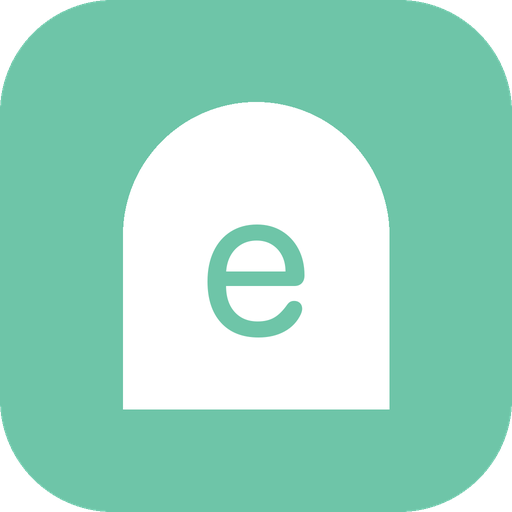
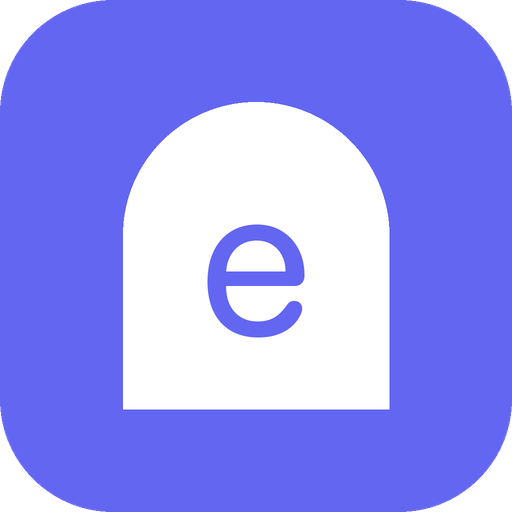
rebrand: 主色 Mint → Indigo #6366f1
- --accent 改 #6366f1，浅 tint 统一 #e5e7fd
- 图标底色改 Indigo（壁龛+e 不变）
- manifest/index theme-color 改 #6366f1
- BUILD_ID/sw VERSION 升 202608180003

diff --git a/styles.css b/styles.css
@@ -1,6 +1,6 @@
 :root {
   --bg: #f5f6f8; --card: #ffffff; --text: #1a1d26; --muted: #8a90a0;
-  --accent: #6ec5a8; --up: #e6413d; --down: #12b76a; --line: #eceef2;
+  --accent: #6366f1; --up: #e6413d; --down: #12b76a; --line: #eceef2;
   --danger: #e6413d;
 }
 * { box-sizing: border-box; margin: 0; padding: 0; -webkit-tap-highlight-color: transparent; }
@@ -33,7 +33,7 @@ body.scroll-locked { overflow: hidden; touch-action: none; }
 .token-eye .ico { width: 18px; height: 18px; display: block; color: var(--muted); }
 
 /* Sync bar (打开时/下拉刷新时显示) */
-.sync-bar { background: #d9efe5; color: var(--accent); font-size: 12px; text-align: center;
+.sync-bar { background: #e5e7fd; color: var(--accent); font-size: 12px; text-align: center;
   padding: 6px 12px; position: sticky; top: 44px; z-index: 9; }
 .sync-bar.hidden { display: none; }
 .sync-bar.error { background: #fdecec; color: var(--up); }
@@ -162,7 +162,7 @@ input, select { width: 100%; padding: 11px 12px; margin: 8px 0; border: 1px soli
 .dd-item { padding: 13px 18px; font-size: 15px; cursor: pointer; display: flex; align-items: center;
   gap: 10px; transition: background 0.12s; user-select: none; -webkit-user-select: none; }
 .dd-item:active { background: #f0f2f6; }
-.dd-item.active { color: var(--accent); font-weight: 600; background: #d9efe5; }
+.dd-item.active { color: var(--accent); font-weight: 600; background: #e5e7fd; }
 .dd-item .dd-icon { width: 20px; height: 20px; flex-shrink: 0; display: flex; align-items: center; justify-content: center; }
 .dd-item .dd-icon svg { width: 18px; height: 18px; }
 .dd-divider { height: 1px; background: var(--line); margin: 0 12px; }
@@ -173,7 +173,7 @@ input, select { width: 100%; padding: 11px 12px; margin: 8px 0; border: 1px soli
   border: 1px solid var(--line); margin-bottom: 12px; overflow: hidden; }
 .trade-tab { flex: 1; padding: 10px; text-align: center; font-size: 13px; font-weight: 500;
   cursor: pointer; color: var(--muted); border: 0; background: none; transition: all 0.2s; }
-.trade-tab.active { color: var(--accent); background: #d9efe5; font-weight: 600; }
+.trade-tab.active { color: var(--accent); background: #e5e7fd; font-weight: 600; }
 
 .summary-grid { display: grid; grid-template-columns: repeat(2, 1fr); gap: 8px; margin-bottom: 12px; }
 .summary-card { background: var(--card); border-radius: 10px; padding: 10px 12px; border: 1px solid var(--line); }
@@ -201,7 +201,7 @@ input, select { width: 100%; padding: 11px 12px; margin: 8px 0; border: 1px soli
 .trade-list { display: flex; flex-direction: column; gap: 8px; }
 .trade-card { background: var(--card); border-radius: 12px; border: 1px solid var(--line);
   padding: 12px 14px; cursor: pointer; transition: box-shadow 0.15s; }
-.trade-card:active { box-shadow: 0 0 0 2px #d9efe5; }
+.trade-card:active { box-shadow: 0 0 0 2px #e5e7fd; }
 .tc-top { display: flex; align-items: flex-start; gap: 10px; margin-bottom: 6px; }
 .tc-name { flex: 1; font-size: 14px; font-weight: 600; line-height: 1.3;
   overflow: hidden; text-overflow: ellipsis; display: -webkit-box;
@@ -220,7 +220,7 @@ input, select { width: 100%; padding: 11px 12px; margin: 8px 0; border: 1px soli
 .tc-badge { font-size: 11px; padding: 2px 8px; border-radius: 6px; font-weight: 500; }
 .tc-badge.shipped { background: #e6f7ef; color: var(--down); }
 .tc-badge.unshipped { background: #f5f5f5; color: var(--muted); }
-.tc-badge.paid { background: #d9efe5; color: var(--accent); }
+.tc-badge.paid { background: #e5e7fd; color: var(--accent); }
 .tc-badge.unpaid { background: #fff4e5; color: #f79009; }
 .tc-detail { display: none; margin-top: 10px; padding-top: 10px;
   border-top: 1px solid var(--line); font-size: 12px; color: var(--muted); }

diff --git a/index.html b/index.html
@@ -4,7 +4,7 @@
 <meta charset="UTF-8">
 <meta name="viewport" content="width=device-width, initial-scale=1, viewport-fit=cover, user-scalable=no">
 <title>eNook</title>
-<meta name="theme-color" content="#6ec5a8">
+<meta name="theme-color" content="#6366f1">
 <meta name="apple-mobile-web-app-capable" content="yes">
 <meta name="apple-mobile-web-app-status-bar-style" content="default">
 <meta name="apple-mobile-web-app-title" content="eNook">

diff --git a/sw.js b/sw.js
@@ -1,4 +1,4 @@
-const VERSION = 'assetbook-202608172330';
+const VERSION = 'assetbook-202608180003';
 const ASSETS = ['./', './index.html', './styles.css', './core.js', './gist.js', './ui.js', './trades.js',
                 './manifest.json', './icons/icon-192.png', './icons/icon-512.png',
                 './icons/apple-touch-icon.png', './icons/favicon.png'];

diff --git a/ui.js b/ui.js
@@ -1,7 +1,7 @@
 /* global Core, Gist, Trades */
 'use strict';
 const LS_KEY = 'assetbook.v1';
-const BUILD_ID = '202608172330';
+const BUILD_ID = '202608180003';
 const $ = sel => document.querySelector(sel);
 
 let state = loadState();
